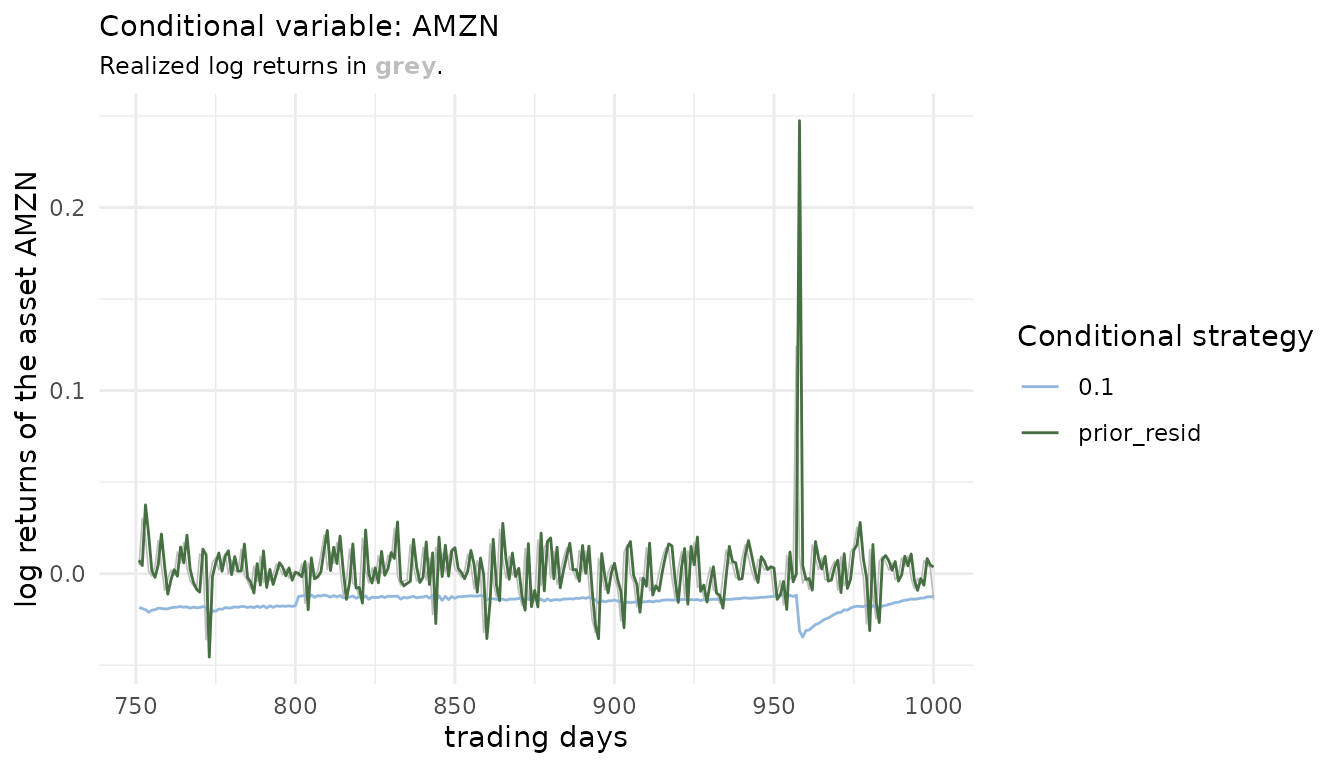
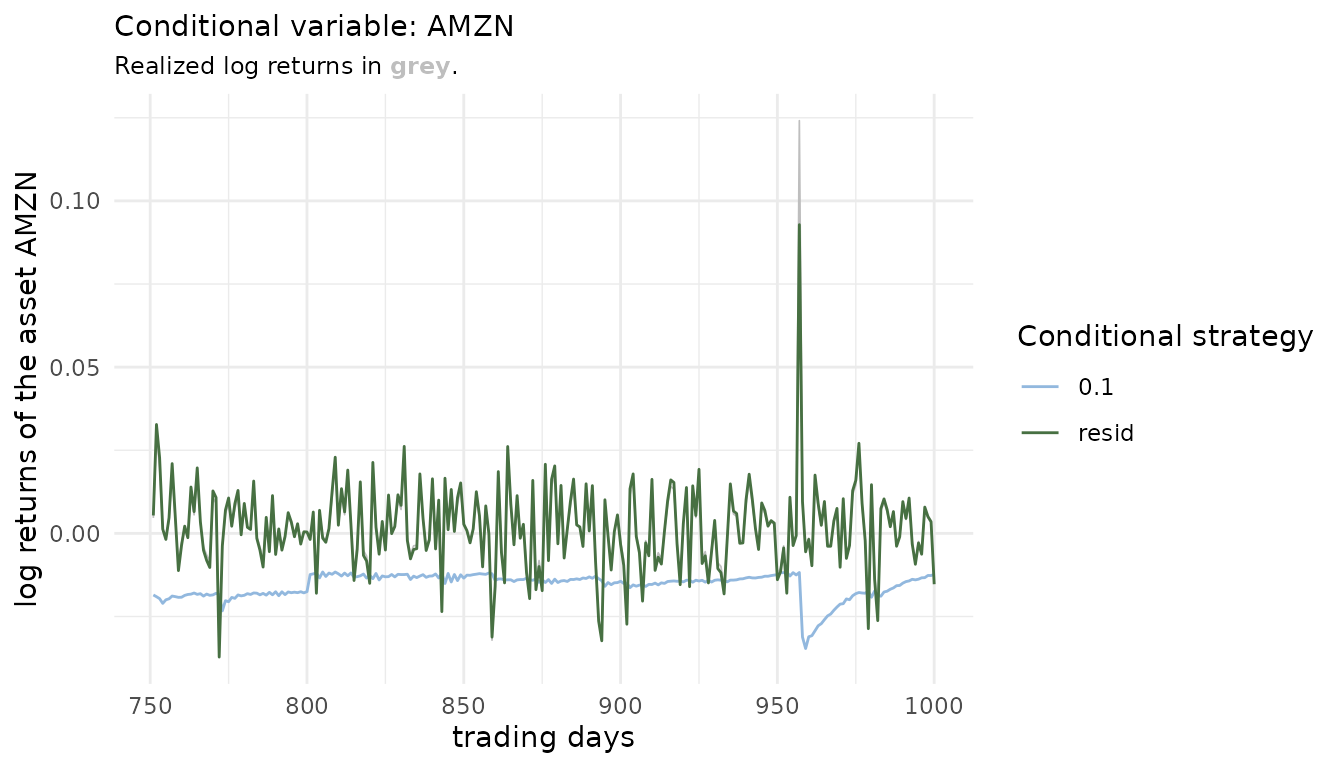
Built site for portvine: 1.0.0@50ced7c

diff --git a/articles/get_started.html b/articles/get_started.html
@@ -260,7 +260,7 @@
 <span class="co">#&gt; Risk measures estimated: VaR ES_mean </span>
 <span class="co">#&gt; Alpha levels used: 0.01 0.025 </span>
 <span class="co">#&gt; </span>
-<span class="co">#&gt; Time taken: 0.5318 minutes</span></code></pre></div>
+<span class="co">#&gt; Time taken: 0.3985 minutes</span></code></pre></div>
 <div class="sourceCode" id="cb11"><pre class="downlit sourceCode r">
 <code class="sourceCode R"><span class="fu"><a href="https://rdrr.io/r/base/summary.html" class="external-link">summary</a></span><span class="op">(</span><span class="va">uncond_risk_roll</span><span class="op">)</span>
 <span class="co">#&gt; An object of class &lt;portvine_roll&gt;</span>
@@ -283,7 +283,7 @@
 <span class="co">#&gt; Number of estimated risk measures: 1000 </span>
 <span class="co">#&gt; Number of samples for each risk estimation: 1000 </span>
 <span class="co">#&gt; </span>
-<span class="co">#&gt; Time taken: 0.5318 minutes.</span></code></pre></div>
+<span class="co">#&gt; Time taken: 0.3985 minutes.</span></code></pre></div>
 </div>
 <div class="section level3">
 <h3 id="the-conditional-case-2">The conditional case<a class="anchor" aria-label="anchor" href="#the-conditional-case-2"></a>
@@ -311,7 +311,7 @@
 <span class="co">#&gt; Risk measures estimated: VaR ES_mean </span>
 <span class="co">#&gt; Alpha levels used: 0.01 0.025 </span>
 <span class="co">#&gt; </span>
-<span class="co">#&gt; Time taken: 0.8025 minutes</span></code></pre></div>
+<span class="co">#&gt; Time taken: 0.5925 minutes</span></code></pre></div>
 <div class="sourceCode" id="cb14"><pre class="downlit sourceCode r">
 <code class="sourceCode R"><span class="fu"><a href="https://rdrr.io/r/base/summary.html" class="external-link">summary</a></span><span class="op">(</span><span class="va">cond_risk_roll</span><span class="op">)</span>
 <span class="co">#&gt; An object of class &lt;cond_portvine_roll&gt;</span>
@@ -339,7 +339,7 @@
 <span class="co">#&gt; Number of estimated risk measures: 1000 </span>
 <span class="co">#&gt; Number of samples for each risk estimation: 1000 </span>
 <span class="co">#&gt; </span>
-<span class="co">#&gt; Time taken: 0.8025 minutes.</span></code></pre></div>
+<span class="co">#&gt; Time taken: 0.5925 minutes.</span></code></pre></div>
 </div>
 </div>
 <div class="section level2">
@@ -542,17 +542,17 @@
     <span class="va">cond_risk_roll</span>,
     risk_measures <span class="op">=</span> <span class="st">"ES_mean"</span>,
     alpha <span class="op">=</span> <span class="fl">0.01</span>,
-    cond_u <span class="op">=</span> <span class="fu"><a href="https://rdrr.io/r/base/c.html" class="external-link">c</a></span><span class="op">(</span><span class="st">"prior_resid"</span>, <span class="fl">0.1</span><span class="op">)</span>
+    cond_u <span class="op">=</span> <span class="fu"><a href="https://rdrr.io/r/base/c.html" class="external-link">c</a></span><span class="op">(</span><span class="st">"resid"</span>, <span class="fl">0.1</span><span class="op">)</span>
   <span class="op">)</span>,
   <span class="fl">6</span>
 <span class="op">)</span>
-<span class="co">#&gt;   risk_measure    risk_est alpha row_num         AMZN      cond_u vine_window</span>
-<span class="co">#&gt; 1      ES_mean -0.08557438  0.01     751 -0.018518268         0.1           1</span>
-<span class="co">#&gt; 2      ES_mean -0.06680720  0.01     751  0.007347559 prior_resid           1</span>
-<span class="co">#&gt; 3      ES_mean -0.10546217  0.01     752 -0.019046492         0.1           1</span>
-<span class="co">#&gt; 4      ES_mean -0.05151684  0.01     752  0.004434144 prior_resid           1</span>
-<span class="co">#&gt; 5      ES_mean -0.09586411  0.01     753 -0.019629721         0.1           1</span>
-<span class="co">#&gt; 6      ES_mean -0.10195091  0.01     753  0.037611821 prior_resid           1</span>
+<span class="co">#&gt;   risk_measure    risk_est alpha row_num         AMZN cond_u vine_window</span>
+<span class="co">#&gt; 1      ES_mean -0.08557438  0.01     751 -0.018518268    0.1           1</span>
+<span class="co">#&gt; 2      ES_mean -0.06716524  0.01     751  0.005385051  resid           1</span>
+<span class="co">#&gt; 3      ES_mean -0.10546217  0.01     752 -0.019046492    0.1           1</span>
+<span class="co">#&gt; 4      ES_mean -0.06821455  0.01     752  0.032755136  resid           1</span>
+<span class="co">#&gt; 5      ES_mean -0.09586411  0.01     753 -0.019629721    0.1           1</span>
+<span class="co">#&gt; 6      ES_mean -0.07961861  0.01     753  0.022764076  resid           1</span>
 <span class="co">#&gt;      realized</span>
 <span class="co">#&gt; 1 0.000812683</span>
 <span class="co">#&gt; 2 0.000812683</span>
@@ -603,7 +603,7 @@
        <span class="op">)</span> <span class="op">+</span>
   <span class="fu"><a href="https://ggplot2.tidyverse.org/reference/theme.html" class="external-link">theme</a></span><span class="op">(</span>legend.position <span class="op">=</span> <span class="st">"none"</span><span class="op">)</span></code></pre></div>
 <p><img src="get_started_files/figure-html/unnamed-chunk-24-1.png" width="672"></p>
-<p>In the conditional case one can first have a look at how the different conditional strategies behave. On the one side a conditioning value based on the quantile level 0.1 was forecasted (below shown in light blue) and on the other side the prior residual strategy tries to emulate the actual behavior of the conditional asset by using the prior day residual (below shown in green).</p>
+<p>In the conditional case one can first have a look at how the different conditional strategies behave. On the one side a conditioning value based on the quantile level 0.1 was forecasted (below shown in light blue) and on the other side the prior residual strategy is by default set to the one that uses the realized residuals (below shown in green, it should overlay the grey realized line). Those are only for the comparison as they conceptually are an oracle as the actual realized conditional asset returns would not be known at sampling time.</p>
 <div class="sourceCode" id="cb26"><pre class="downlit sourceCode r">
 <code class="sourceCode R"><span class="fu"><a href="../reference/risk_estimates.html">risk_estimates</a></span><span class="op">(</span>
   <span class="va">cond_risk_roll</span>,

diff --git a/articles/theory.html b/articles/theory.html
@@ -123,7 +123,7 @@
 <p>The ordering of the D-vine is calculated based on Pearson and partial correlations from the training data and aims to maximize the resulting full likelihood of the copula. An illustration of the estimated dependencies that are maximized in each step of the algorithm for a 4 dimensional example is given below.</p>
 <p><br><img src="conddvine4colored.png" align="center" width="100%"><br><br></p>
 <p>The <span class="math inline">\(c_{depth}\)</span> parameter can be used to only account for the dependencies up to the corresponding depth. More details can be once again found in my master thesis.</p>
-<p>Additionally to this approach based on a quantile level one can also use the copula scale residual of the index <span class="math inline">\(I\)</span> from the prior time unit i.e. to estimate the risk measure at time unit <span class="math inline">\(t\)</span> use <span class="math inline">\(u^I_{t-1}\)</span> as the conditioning value at the copula scale. The resulting estimated risk measure will emulate the behavior of conditioning on the predicted market index log return series and might be a valuable comparison to the estimated quantile based conditional risk measures. Opposed to the <strong>quantile based conditional risk measures</strong> one will can call these <strong>prior residual conditional risk measures</strong>. These <code>prior_resid</code> risk measure estimates are calculated by default in the conditional case.</p>
+<p>Additionally to this approach based on a quantile level one can also use the copula scale residual of the index <span class="math inline">\(I\)</span> from the prior time unit i.e. to estimate the risk measure at time unit <span class="math inline">\(t\)</span> use <span class="math inline">\(u^I_{t-1}\)</span> as the conditioning value at the copula scale. The resulting estimated risk measure will emulate the behavior of conditioning on the predicted market index log return series and might be a valuable comparison to the estimated quantile based conditional risk measures. Opposed to the <strong>quantile based conditional risk measures</strong> one will can call these <strong>prior residual conditional risk measures</strong>. These <code>prior_resid</code> risk measure estimates however suffer from exaggerating market fluctuations and thus should be handled with care. Another non quantile based conditional risk measure estimation approach is the one calculating the <strong>realized residual conditional risk measures</strong> which are based on the actual observed residuals which means one conditions on the actually realized value of the conditional asset. This is an oracle estimator as it suffers from information leakage but is a valuable comparison to the quantile based conditional risk measures. These <code>resid</code> risk measure estimates are calculated by default in the conditional case.</p>
 <p>Extending the single conditional case to <strong>two conditioning market indices</strong> <span class="math inline">\(I_1, I_2\)</span> is quite straight forward. The only crucial change is to determine the conditioning values for the conditional sampling based on a quantile level <span class="math inline">\(\alpha^I\)</span>. This is achieved via the the bivariate copula fitted between the two market indices to adjust for their dependence. The ordering algorithm resulting in the order <span class="math inline">\(A_{j_d}-\dots- A_{j_1}-I_{\tilde{j}_1}-I_{\tilde{j}_2}\)</span> is conceptually equal to the one for a single market index. A detailed elaboration can be found in my master thesis. It is also there where the <strong>conditional sampling algorithms for D-vine copulas based on the rightmost leaf(s)</strong> were introduced. Moreover the thesis also theoretically elaborates on applicable backtesting strategies for the resulting portfolio level Value at Risk and expected shortfall estimates.</p>
 <p>Finally a table is given that maps the function arguments to the now theoretically used variable names.</p>
 <table style="width:99%;" class="table">

diff --git a/reference/estimate_risk_roll.html b/reference/estimate_risk_roll.html
@@ -83,7 +83,8 @@ summarized explanation have a look at the Details section below.</p>
   cond_u <span class="op">=</span> <span class="fl">0.05</span>,
   n_mc_samples <span class="op">=</span> <span class="fl">1000</span>,
   trace <span class="op">=</span> <span class="cn">FALSE</span>,
-  cutoff_depth <span class="op">=</span> <span class="cn">NULL</span>
+  cutoff_depth <span class="op">=</span> <span class="cn">NULL</span>,
+  prior_resid_strategy <span class="op">=</span> <span class="cn">FALSE</span>
 <span class="op">)</span></code></pre></div>
     </div>
 
@@ -130,7 +131,10 @@ measure estimation.</p></dd>
 in (0,1) of the conditional variable(s) conditioned on which the conditional
 risk measures should be calculated. Additionally always the conditioning
 values corresponding to the residual of one time unit prior are used as
-conditional variables (<code>cond_u</code> = 'prior_resid' in the risk measure output).</p></dd>
+conditional variables (<code>cond_u</code> = 'prior_resid' in the risk measure output)
+if the flag<code>prior_resid</code> is set to TRUE, otherwise the conditioning values
+corresponding to the realized residual are used (<code>cond_u</code> = 'resid'
+in the risk measure output). The latter case corresponds to the default.</p></dd>
 <dt>n_mc_samples</dt>
 <dd><p>Positive count of samples for the Monte Carlo integration
 if the risk measure <code>ES_mc</code> is used. (See <code><a href="est_es.html">est_es()</a></code>)</p></dd>
@@ -144,6 +148,13 @@ that determines the ordering for the D-vine fitting using partial
 correlations. The default <code>NULL</code>
 considers all edges and seems in most use cases reasonable. This argument is
 only relevant if D-vines are used.</p></dd>
+<dt>prior_resid_strategy</dt>
+<dd><p>Logical flag that indicates whether as the
+additionally
+used conditioning values the prior day residual (if this flag is TRUE) or the
+realized residuals are used. The default are the realized residuals. Note
+that the resulting conditional risk measures use realized data so they are
+only for comparisons as they suffer from information leakage.</p></dd>
 </dl></div>
     <div class="section level2">
     <h2 id="value">Value<a class="anchor" aria-label="anchor" href="#value"></a></h2>
@@ -278,7 +289,8 @@ More details can be found in the extensive documentation of the
 <span class="r-in">  n_samples <span class="op">=</span> <span class="fl">1000</span>,</span>
 <span class="r-in">  cond_vars <span class="op">=</span> <span class="st">"GOOG"</span>,</span>
 <span class="r-in">  cond_u <span class="op">=</span> <span class="fu"><a href="https://rdrr.io/r/base/c.html" class="external-link">c</a></span><span class="op">(</span><span class="fl">0.05</span>, <span class="fl">0.5</span><span class="op">)</span>,</span>
-<span class="r-in">  trace <span class="op">=</span> <span class="cn">FALSE</span></span>
+<span class="r-in">  trace <span class="op">=</span> <span class="cn">FALSE</span>,</span>
+<span class="r-in">  prior_resid_strategy <span class="op">=</span> <span class="cn">TRUE</span></span>
 <span class="r-in"><span class="op">)</span></span>
 <span class="r-in"></span>
 <span class="r-in"><span class="co"># have a superficial look</span></span>

diff --git a/articles/parallel.html b/articles/parallel.html
@@ -98,8 +98,8 @@
 <li>The first level allows to fit the univariate time series models for each asset in parallel <strong>and</strong> to fit each vine window in parallel.</li>
 <li>The second level allows if specified that within each vine window the time units, often days, are processed using parallel processes.</li>
 </ol>
-<p>From here on one will use the notation <span class="math inline">\(p_1\)</span>/<span class="math inline">\(p_2\)</span> for the possible parallel strategies where <span class="math inline">\(p_1\)</span> specifies the number of parallel processes/cores on the first level and <span class="math inline">\(p_2\)</span> the number of parallel processes/cores every first level process can in turn call. This means 1/1 is the default sequential case, 5/1 does only use the first level parallelization and 8/2 would require 16 cores as every first level parallel process can use 2 parallel processes while iterating over the time units/days. An illustration of the nested parallelization of the vine windows can be found below.</p>
-<p><br><img src="nested_parallel2_3.png" align="center" width="60%"><br><br></p>
+<p>From here on one will use the notation <span class="math inline">\(p_1\)</span>/<span class="math inline">\(p_2\)</span> for the possible parallel strategies where <span class="math inline">\(p_1\)</span> specifies the number of parallel processes/cores on the first level and <span class="math inline">\(p_2\)</span> the number of parallel processes/cores every first level process can in turn call. This means 1/1 is the default sequential case, 5/1 does only use the first level parallelization and 8/2 would require 16 cores as every first level parallel process can use 2 parallel processes while iterating over the time units/days. An illustration of the two first processing rounds of the nested parallelization of the vine windows can be found below.</p>
+<p><br><img src="nested_parallel2_3_process.png" align="center" width="100%"><br><br></p>
 </div>
 <div class="section level2">
 <h2 id="performance-measurements">Performance measurements<a class="anchor" aria-label="anchor" href="#performance-measurements"></a>

diff --git a/reference/risk_estimates.html b/reference/risk_estimates.html
@@ -118,7 +118,8 @@ otherwise returns the overall risk estimates.</p></dd>
 <dd><p>Numeric or character vector specifying the corresponding
 quantiles
 in (0,1) of the conditional variable(s) conditioned on which the conditional
-risk measures were calculated to filter for and/or the class "prior_resid".
+risk measures were calculated to filter for and/or the class
+"prior_resid"/"resid".
 Note that they must be fitted in the <code>roll</code> argument.
 The default will return all fitted risk measures.</p></dd>
 </dl></div>

diff --git a/reference/portvine_roll-class.html b/reference/portvine_roll-class.html
@@ -162,7 +162,8 @@ estimation process took.</p></dd>
 <code>risk_estimate</code> slot has + the additional conditional columns with the
 respective conditioning value and the column character <code>cond_u</code> that
 indicates the used conditional quantile level or the conditional value
-corresponding to the residual one time unit prior with "prior_resid".</p></dd>
+corresponding to the residual one time unit prior with "prior_resid" or
+the realized residual with "resid".</p></dd>
 
 
 <dt><code>cond_vars</code></dt>
